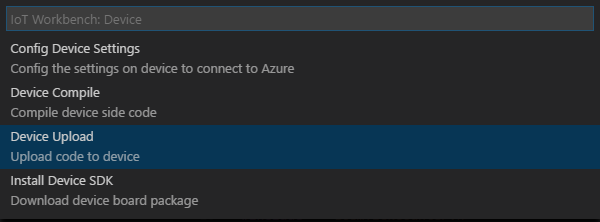
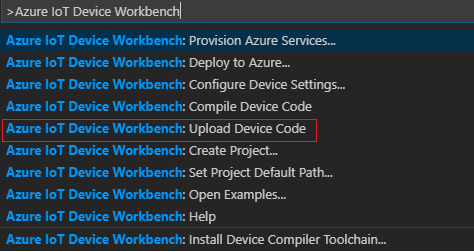
update the readme.md file for IoT Workbench changes

diff --git a/README.MD b/README.MD
@@ -23,26 +23,26 @@ In this tutorial, you will learn how to use the esp32-azure-kit board to send da
 ### Start VS Code
 
 - Start Visual Studio Code.
-- Make sure [Azure IoT Workbench](https://marketplace.visualstudio.com/items?itemName=vsciot-vscode.vscode-iot-workbench) is installed.
+- Make sure [Azure IoT Device Workbench](https://marketplace.visualstudio.com/items?itemName=vsciot-vscode.vscode-iot-workbench) is installed.
 - Connect ESP32-azure-kit to your PC.
 
 ### Open IoT Workbench Examples
 
-- Use `F1` or `Ctrl+Shift+P` (macOS: `Cmd+Shift+P`) to open the command palette, type **IoT Workbench**, and then select **IoT Workbench: Examples**.
+- Use `F1` or `Ctrl+Shift+P` (macOS: `Cmd+Shift+P`) to open the command palette, type **Azure IoT Device Workbench**, and then select **Open Examples...**.
 
-    ![IoT Workbench: Examples](images/iot-workbench-examples-cmd.png)
+    ![IoT Device Workbench: Examples](images/iot-workbench-examples-cmd.png)
 
 - Select **ESP32 Arduino**.
 
-    ![IoT Workbench: Examples -> Select board](images/iot-workbench-examples-board.png)
+    ![IoT Device Workbench: Examples -> Select board](images/iot-workbench-examples-board.png)
 
-- Then the **IoT Workbench Example** window is shown up.
+- Then the **IoT Device Workbench Example** window is shown up.
 
-    ![IoT Workbench, Examples window](images/iot-workbench-examples.jpg)
+    ![IoT Device Workbench, Examples window](images/iot-workbench-examples.jpg)
 
 - Find **ESP32 IoT Contral Sample** and click **Open Sample** button. A new VS Code window with a project folder in it opens.
 
-    ![IoT Workbench, select ESP32 IoT Contral Sample example](images/open-example-esp32-iot-central.jpg)
+    ![IoT Device Workbench, select ESP32 IoT Contral Sample example](images/open-example-esp32-iot-central.jpg)
 
 ## Create Azure IoT Central application
 
@@ -147,13 +147,13 @@ In this tutorial, you will learn how to use the esp32-azure-kit board to send da
 
 ## Build and upload the device code
 
-1. Open the command palette and select **IoT Workbench: Device**, then select **Device Upload**.
+1. Open the command palette and select **Azure IoT Device Workbench: Upload Device Code**.
 
-	![IoT Workbench: Device -> Upload](images/iot-workbench-device-upload.png)
+	![IoT Device Workbench: Device -> Upload](images/iot-workbench-device-upload.png)
 
 2. VS Code then starts verifying and uploading the code to your DevKit.
 
-	![IoT Workbench: Device -> Uploaded](images/esp32-device-uploaded.png)
+	![IoT Device Workbench: Device -> Uploaded](images/esp32-device-uploaded.png)
 
 3. The ESP32 device reboots and starts running the code.
 
